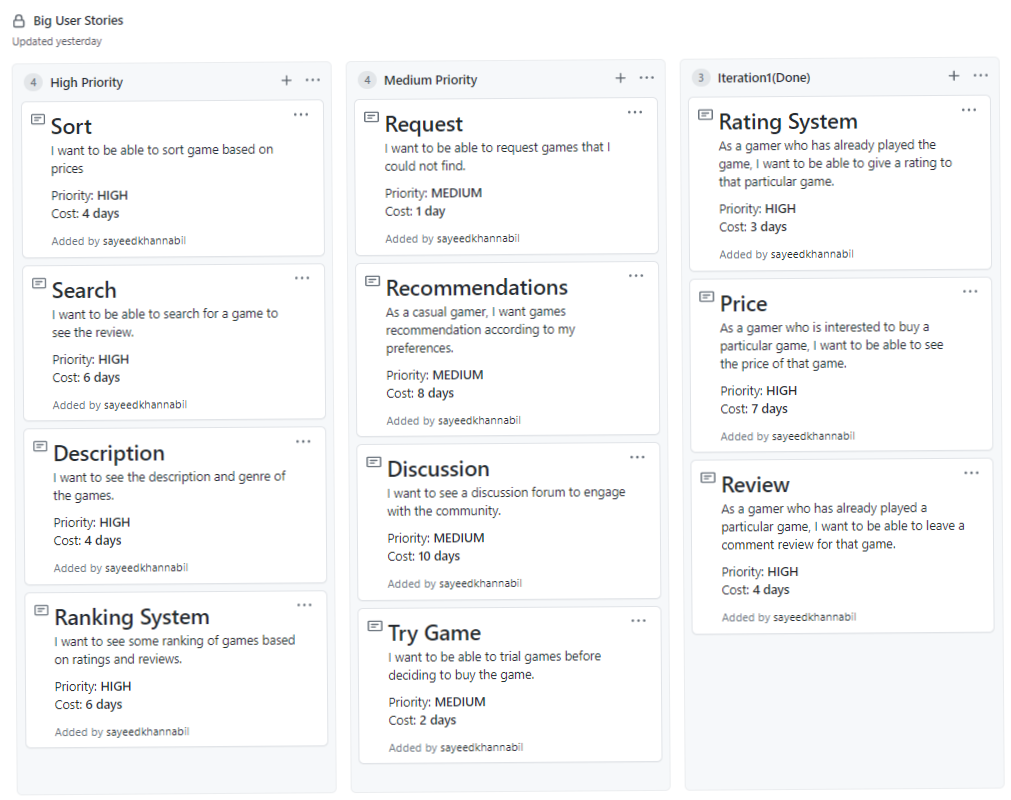
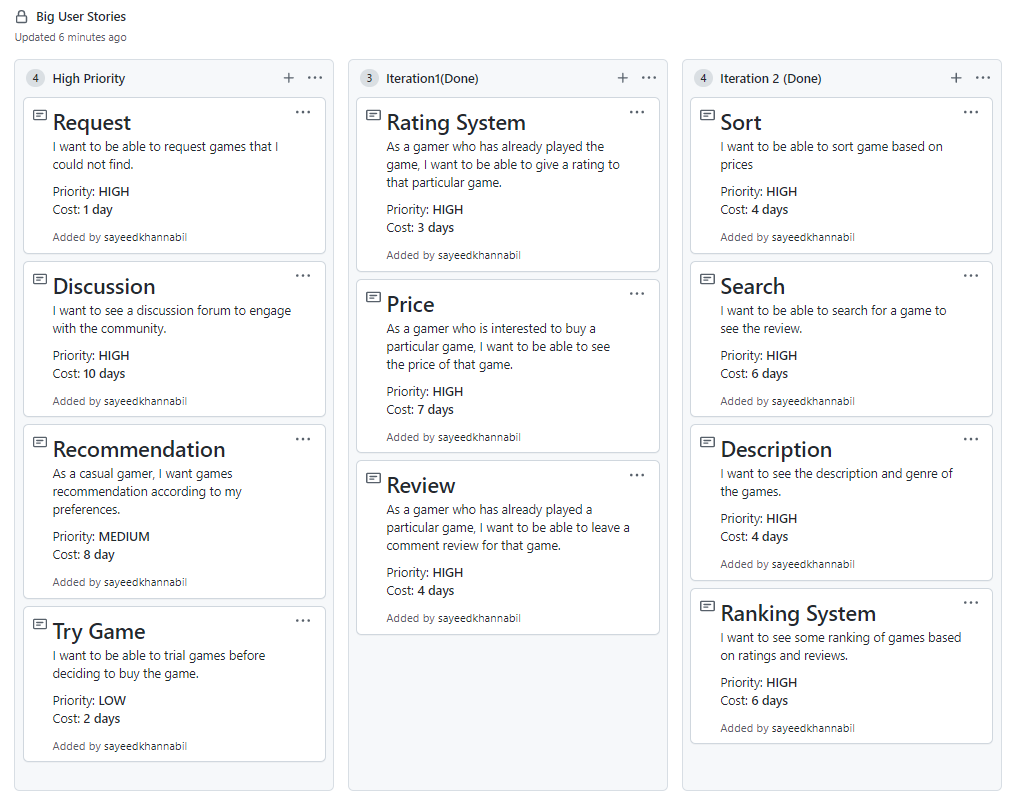
Readme done

diff --git a/README.md b/README.md
@@ -40,7 +40,7 @@ There are no major changes on this part in Iteration 2.
 
 ### Business:
 
-The classes in `Business` package handle the logic of the program. There are 4 classes in this package.
+The classes in `Business` package handle the logic of the program. There are 8 classes in this package.
 
 ##### AccessGames:
 
@@ -58,18 +58,33 @@ The classes in `Business` package handle the logic of the program. There are 4 c
 
 `AccessReviews` class handles the logic behind `review` object storage in HSQL database and used to access and modify reviews of games in the database.
 
+##### AccessPosts:
+
+`AccessPosts` class handles the logic behind accessing and modifying `Post` object in both HSQL database and stub-database.
+
+##### AccessReplys:
+
+`AccessReplys` class handles the logic behind accessing and modifying `Reply` object in both HSQL database and stub-database.
+
+##### AccessRequests:
+
+`AccessRequests` class handles the logic behind accessing and modifying `Request` object in both HSQL database and stub-database.
+
+##### AccessVoteReplys:
+
+`AccessVoteReplys` class handles the logic behind accessing and modifying `Upvote` and `Downvote` objects in both HSQL database and stub-database.
+
 
 
 #### Major Changes:
 
-* Changed the storage from stub-database to HSQL database for all class and added `AccessReviews` and `AccessRatings`
-* Modified `AccessGames` and `AccessUsers` class so that all of the classes can work with HSQLDB.Added 8 sort methods and implicit search to `AccessGames`.Added implicit search to `AccessUsers`.
+* Database access for new feature classes: `AccessPost` , `AccessReplys`, `AccessRequests` and `AccessVoteReplys`
 
 
 
 ### Objects:
 
-The `objects` package have the necessary object class that the project needed. There are 5 classes and 1 abstract class in this package.
+The `objects` package have the necessary object class that the project needed. There are 12 classes, 2 abstract classes and 1 interface in this package.
 
 ##### User:
 
@@ -95,13 +110,47 @@ An user can leave a review of a game. `Review` class handles how those reviews g
 
 `Game` class handles the overall functionality of the game. In the class, game info, price and feedbacks are stored.
 
+##### ForumContent:
+
+`ForumContent` class is a parent class of `Post` and `Reply` which are content of the discussion forum.
+
+##### Post:
+
+An user can create posts in the discussion forum. This class handles the functionality of creating posts in the forum.
+
+##### Reply:
+
+An user can give replies to previously created posts. The class handles the functionality of creating replies in the forum. Using reply multiple users can engage in a discussion in the discussion forum.
+
+##### Request:
+
+An user can requests for a game to be added in the app if they cannot find the information of a game they are looking for. They can see the games they requested and also what are the most requested games other users want. With `Request` class, these need can be handled.
+
+##### VoteI:
+
+This is a interface for `Vote` class
+
+##### Vote:
+
+`Vote` is a abstract class which is the parent class of `Upvote` and `Downvote`. If a user like a post or reply they can upvote it and if they dislike something they can downvote it.
+
+##### Upvote:
+
+`Upvote` is a child class of vote. It handles the functionality to upvoting a post or a reply.
+
+##### Downvote:
+
+`Downvote` is a child class of vote. It handles the functionality to downvoting a post or a reply.
+
+##### VoteReply:
+
+`VoteReply` is a combination of `Vote` and `Reply`. With this class we can include the functionality of voting in the `Reply` class.
+
 
 
 #### Major Changes:
 
-* Removed `Feedback` class which was used to handle `Review` class and `Rating` class in Iteration 1 to reduce code redundancy.
-* Removed all methods relating to `Review` and `Rating` from the `Game` class to satisfy Single Responsibility Principle.
-* Added more format validation and error handling for all of the classes.
+* Created object classes to implmenent `Vote` , `Reply`, `Post` and `Request` functionalities.
 
 
 
@@ -125,19 +174,13 @@ This is the class that handles the HSQL database and the functionality for the d
 
 #### Major Changes:
 
-* Implemented HSQLDB.
-* added interface to handle HSQLDB and stub-database.
-* updated database and added more method to the pervious database.
-* implemented implicit search for user and game.
-*  Changed the open method from read from file to create objects manually
+* added more methods to the interface and updated the DataAccessObject to store data for the new features.
 
-
-
-
+* created database for `Post`, `Reply`, `Request` and `Vote`
 
 ### Presentation:
 
-The `presentation` package is responsible for all of the classes that handles the UI(user interface).  There are 10 classes in this package.
+The `presentation` package is responsible for all of the classes that handles the UI(user interface).  There are 14 classes in this package.
 
 ##### GameGallery:
 
@@ -179,16 +222,91 @@ The `presentation` package is responsible for all of the classes that handles th
 
 `Utilities` is used to implement a bunch of useful features like alert messages, button shrinking when a button is touched by the user, etc.
 
+##### ForumPage:
 
+`ForumPage` is used to implement the main page of forum page where the users able to create a post.
+
+##### GalleryOrForum:
+
+`GalleryOrForum` is used to implement the page where user can select if they want to go to the gallery page or the forum page.
+
+##### PostPage:
+
+`PostPage` is used to implement the page view of posts.
+
+##### RequestPage:
+
+`RequestPage` is used to implement the main page of game request.
 
 ### Major Changes:
 
-* Added `top bar` so new user can easily identify which page they are currently in and go back to previous page.
-* Added UI for user account page where the user_id and user_pass can be viewed by the users.
-* Added more app functionality like a button shrinks for brief period of time when it is touched to give a more interactive experience to the user when using the app.
-* Improved the overall UI of the app.
-* Added UI for search and sort bar to quickly search a game or sort them according to name, price, ratings and reviews.
-* Added genres of the game(genre bar locates above the description of the game, and can slide horizontally)
+* Added selection page for gallery and forum
+* Created forum page for discussion forum feature
+* Created page to view the recent posts and replies
+* Created UI page for request game feature
+
+
+
+## Testing:
+
+We have done `Unit testing` , `Integration testing` and `Acceptence testing` in our project.
+
+#### Unit Test:
+
+We have done `unit test` for all of the classes `business`, `objects` and `persistence` layers. 
+
+###### Test Classes:
+
+* `business`:
+  * AccessGamesTest
+  * AccessPostsTest
+  * AccessRatingsTest
+  * AccessReplysTest
+  * AccessRequestsTest
+  * AccessReviewsTest
+  * AccessUsersTest
+  * AccessVoteReplysTest
+* `objects`:
+  * DownvoteTest
+  * GameTest
+  * GuestTest
+  * PostTest
+  * RatingTest
+  * RegisteredUserTest
+  * ReplyTest
+  * RequestTest
+  * ReviewTestUpvoteTest
+  * VoteReplyTest
+* `persistence`:
+  * DataAccessITest
+  * DataAccessStub
+
+
+
+#### Integration Test:
+
+`Integration testing` is used for `BusinessPersistenceSeamTest` and `DataAccessHSQLDBTest` to test the relationship between respective classes.
+
+###### Test Classes:
+
+* BusinessPersistenceSeamTest
+* DataAccessHSQLDBTest
+
+
+
+#### Acceptance Test:
+
+For testing all of the big user stories implemented in the project, we have used the `Acceptance Test`. 
+
+###### Test Classes:
+
+* DiscussionForumTest
+* GameInfoTest
+* RatingTest
+* RequestTest
+* ReviewTest
+* SearchTest
+* SortTest
 
 
 
@@ -221,6 +339,20 @@ We have kept the log of the meetings and individual work in the log file. The fo
 
 
 ## Major Implemented Features:
+
+### Iteration 3:
+
+The major implemented features in this iteration:
+
+1. Discussion Forum
+2. Game Request
+
+
+
+* `Discussion Forum` is a forum page where users will be able to create post to start a discussion and other users will be able to reply in the post.
+* `Game request` is a feature by which users will be able to request for games that are not in the app. Users will also able to see their requested games and what are the most requested games in the app.
+
+
 
 ### Iteration 2:
 
@@ -263,10 +395,8 @@ You must rate the game, before you write a review.
 
 ## Issues
 
-* We wanted user to be able to search with released_date of the games. However we realized that it is not very common to search games using released date so we removed the feature.
-* We have added `Genre` to the game description. We wanted to implement a sort functionality to sort the games according to the the `Genre`. However we have decided to sort functionality with genre and decided to do it on the next iteration if we have time.
-
-
+* Because of the time constraint, we did not implement `Game Recommendation` feature and `Try Game` feature.
+* We did not used script for the database. if the marker need to restore the database to original state, just delete it and reinstall.
 
 ## Project Demo
 
@@ -297,7 +427,18 @@ You must rate the game, before you write a review.
 ![gif](https://media.giphy.com/media/dtgzcJeVgELrgm9BEi/giphy.gif)
 
 
+#### Game Request:
+![gif](https://media.giphy.com/media/Xo1AIsEfFO38B3AO5O/giphy.gif)
 
+
+#### Post:
+![gif](https://media.giphy.com/media/nwgbeTZWja5B4JFzFJ/giphy.gif)
+
+#### Reply:
+![gif](https://media.giphy.com/media/vRMqfCC6ACqIVJASUd/giphy.gif)
+
+#### Vote:
+![gif](https://media.giphy.com/media/S4pkkXww0vkS0z1zbD/giphy.gif)
 
 
 
